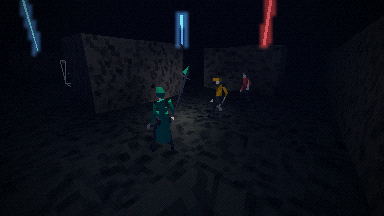
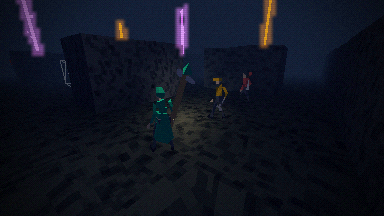
feat(render): legibilidade medida depois da camada A e cores do V3 nas camadas
- layers.ts lê as cores por tok() de look.ts (fonte gerada única, modo daltônico) em vez
  de importar data/art/palette.json por caminho relativo
- lanterna: light.jogador; luz assada: light.ambiente (intensidade recalibrada);
  poeira: world.gaiola
- compare.mjs: cena de prova com o caçador fora do cone, contra o muro. Olhos no preparo
  e feixe ≥ render.legibility.min_contrast (3:1, Art Bible §5.3); corpo do caçador
  conserva render.legibility.body_keep do contraste sem a camada A
- teto de custo com 11 pares; referências do V4 regravadas sobre o V3

Claude-Session: https://claude.ai/code/session_01RHvzBkpAz1qJUMgUKvPxkx

diff --git a/packages/client/src/render/layers.ts b/packages/client/src/render/layers.ts
@@ -3,8 +3,8 @@
 // e a opção "reduzir flicker" (GDD-v0.3 §10.2 e §12.4: zera a aberração e atenua e congela o grão).
 // Números em data/balance.yaml `render.layer_a`, `render.reduce_flicker`; cores por token de data/art/palette.json.
 import * as THREE from "three";
-import palette from "../../../../data/art/palette.json";
 import { balance } from "../data.ts";
+import { tok } from "../look.ts";
 import type { PresetName } from "./present.ts";
 
 export type Layer = "A" | "B" | "C";
@@ -17,13 +17,8 @@ const la = balance.render.layer_a;
 const rf = balance.render.reduce_flicker;
 const clamp01 = (v: number) => (Number.isFinite(v) ? Math.min(1, Math.max(0, v)) : 0);
 
-/** cor linear de um token da paleta (rgb5 de 0 a 31, como no PS1; ColorManagement está desligado) */
-export function paletteColor(token: string): THREE.Color {
-  const t = (palette.tokens as Record<string, { rgb5: number[] } | undefined>)[token];
-  if (!t) throw new Error(`token '${token}' fora de data/art/palette.json`);
-  const [r, g, b] = t.rgb5.map(v => Math.round((v * 255) / 31) / 255);
-  return new THREE.Color(r, g, b);
-}
+/** cor de um token da paleta via look.ts (fonte gerada única, a mesma do modo daltônico); ColorManagement desligado */
+export const paletteColor = (token: string): THREE.Color => new THREE.Color(tok(token));
 
 /** camadas ativas de um preset (`render.presets.<p>.layers`) */
 export const presetLayers = (p: PresetName): LayerSet => {

diff --git a/packages/shared/src/schema.ts b/packages/shared/src/schema.ts
@@ -80,6 +80,7 @@ const render = z.object({
     dust: z.object({ count: z.number().int().nonnegative(), box: pos.positive(), size_px: pos.positive(), opacity: unit, ambient: unit, color: token, fall: pos, sway: pos }).strict(),
   }).strict(),
   layer_cost_factor: num.min(1),
+  legibility: z.object({ min_contrast: num.min(1), body_keep: unit }).strict(),
   budgets: z.object({ fps: pos, draw_calls: z.number().int().positive(), triangles: z.number().int().positive(), initial_download_mb: pos, map_download_mb: pos, time_to_play_s: pos }).strict(),
   models: z.object({ survivor_tris: minMax, hunter_tris: minMax, atlas: z.number().int().positive() }).strict(),
   /** V3 (Art Bible §4): padrões de feixe, telegraph dos olhos e cadeado do aliado preso */
